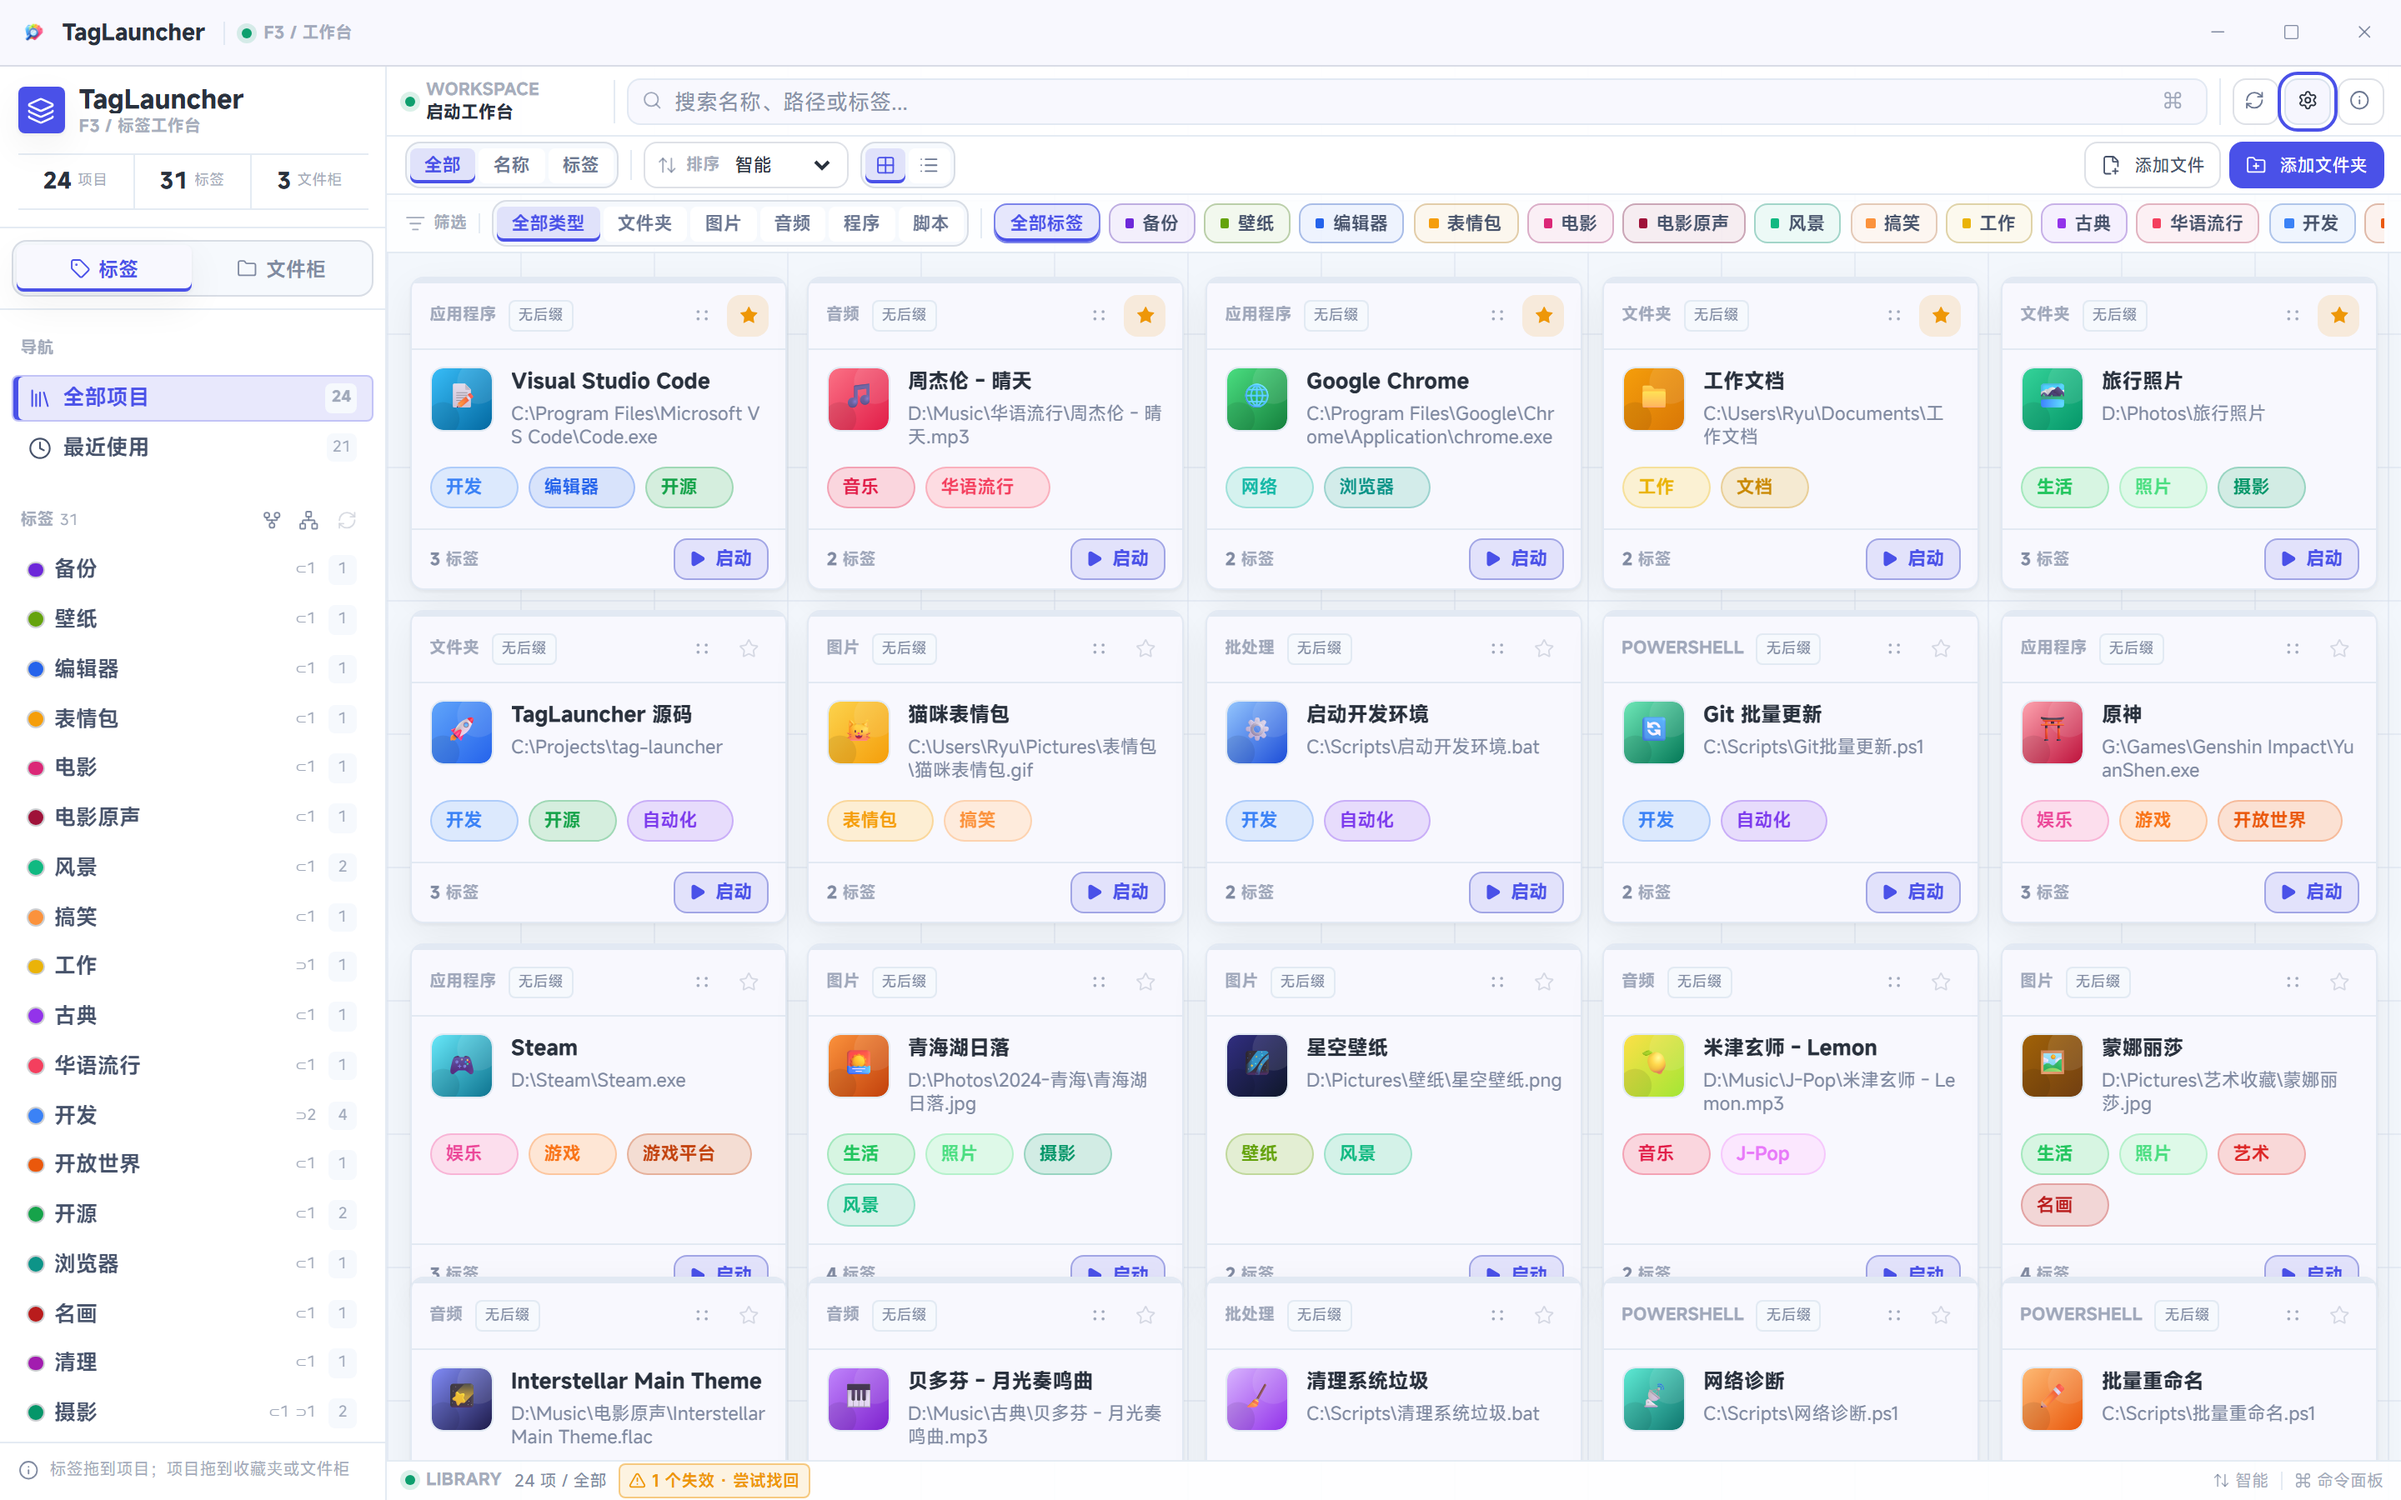
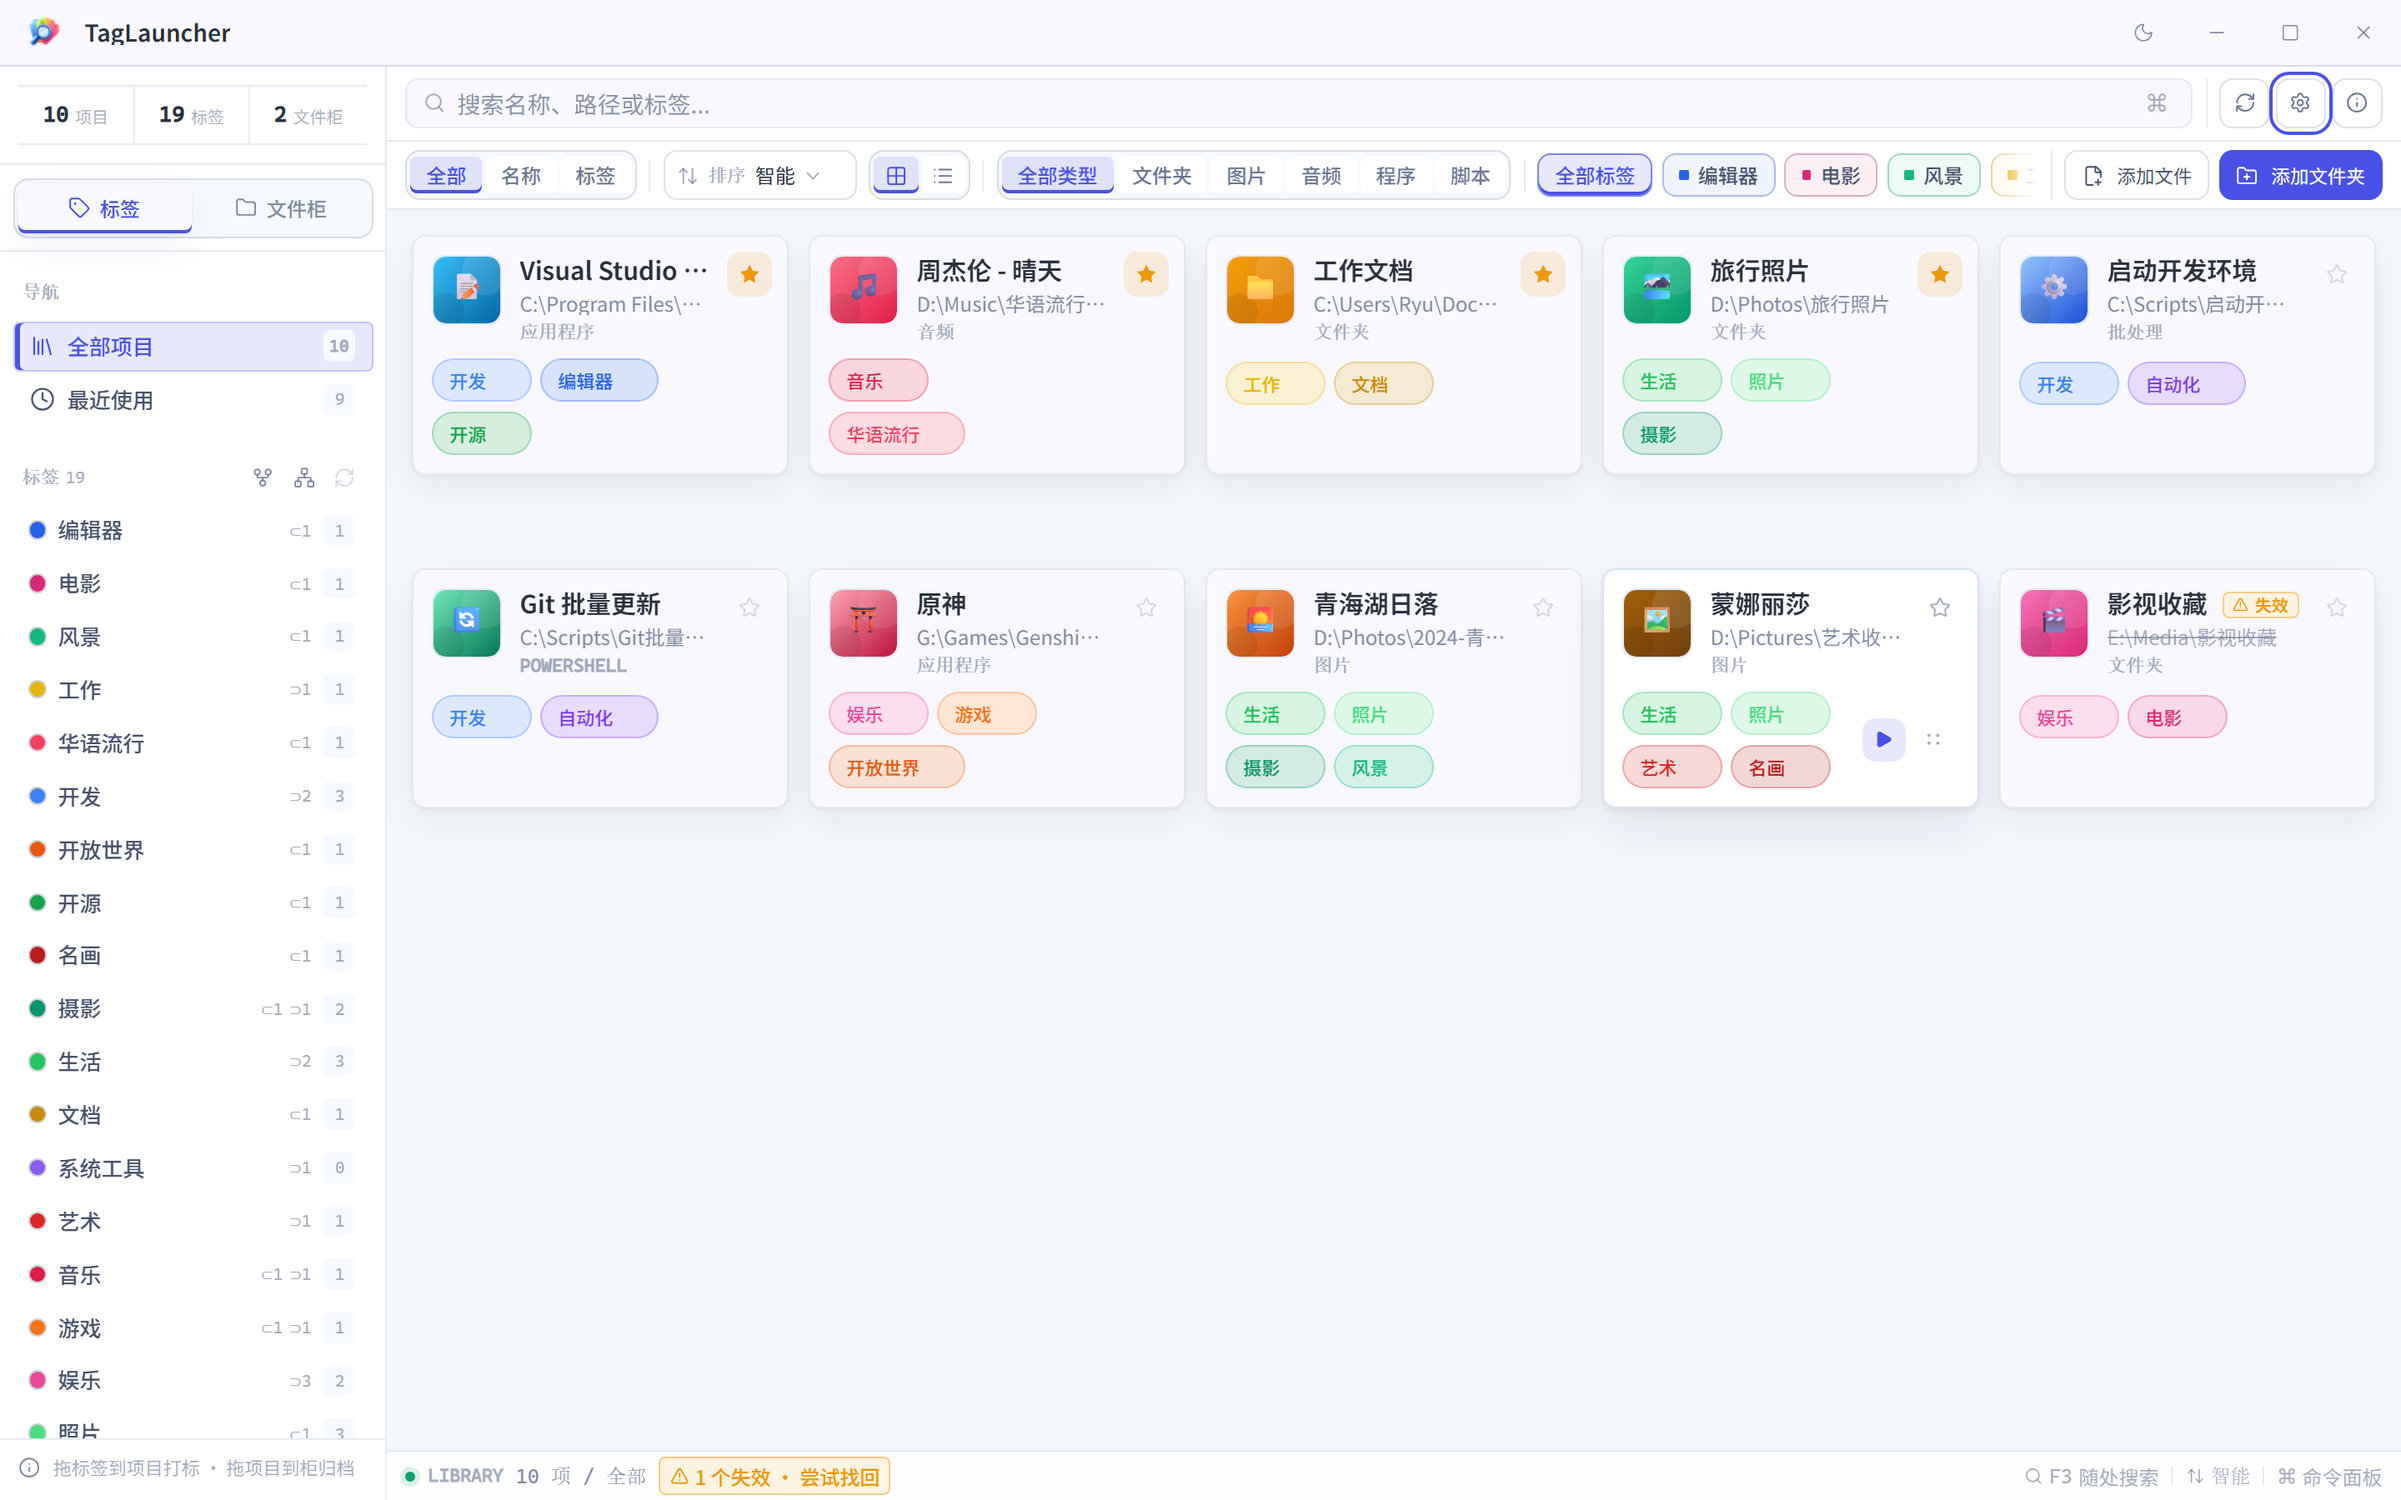
chore: 新增 pack-all.bat 一键全量打包(x64+ARM64 安装包与便携zip)；README 配图更新为 v6.1 新 UI 截图

diff --git a/PROJECT_MANUAL.md b/PROJECT_MANUAL.md
@@ -505,6 +505,7 @@ setShowFavorites(v)       → 清空 selectedCabinetId 和 selectedTagIds
 - `setup.bat`：一键检测并安装 Node / Rust(rustup) / VS C++ BuildTools / WebView2，并执行 `npm install`（全英文 + UTF-8 + CRLF）。
 - `dev.bat` / `build.bat`：自动注入 `%USERPROFILE%\.cargo\bin` 到 PATH 并做环境前置检查；`build.bat` 支持可选 target 参数。
 - `build-arm64.bat`：面向 `aarch64-pc-windows-msvc` 的 ARM64 构建，会自动 `rustup target add`。
+- `pack-all.bat`：一键全量打包——宿主架构原生构建 + 另一架构 `--target` 交叉构建，一次产出 x64/ARM64 的 NSIS 安装包与便携 zip（对齐 CI release 流水线产物）。
 
 ### 开发模式
 ```bash
